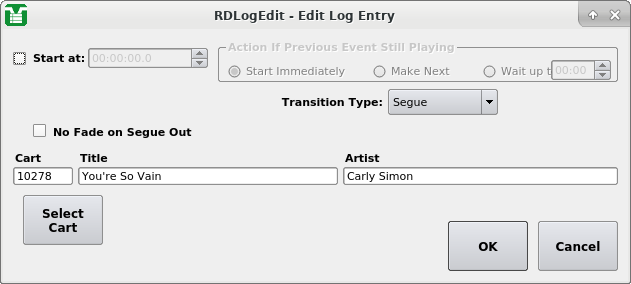
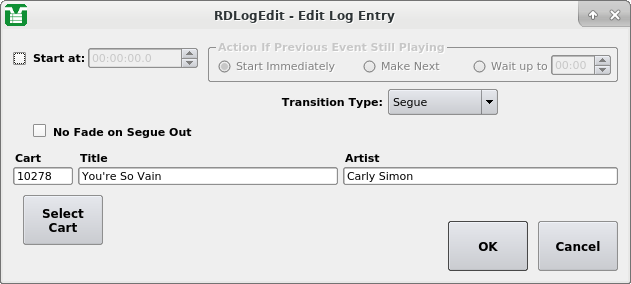
2022-05-20 Fred Gleason <fredg@paravelsystems.com> 	* Adjusted the element layout of the Edit events dialogs in 	rdlogedit(1).

Changed region(s): [[0.271, 0.1408, 0.7227, 0.2817], [0.7528, 0.169, 0.9937, 0.2817]]

diff --git a/rdlogedit/edit_event.cpp b/rdlogedit/edit_event.cpp
@@ -253,12 +253,12 @@ void EditEvent::resizeEvent(QResizeEvent *e)
 {
   edit_timetype_box->setGeometry(10,22,15,15);
   edit_timetype_label->setGeometry(30,19,85,20);
-  edit_time_edit->setGeometry(85,19,120,20);
-  edit_grace_group->setGeometry(215,11,400,42);
-  edit_grace_bgroup->button(0)->setGeometry(10,21,145,20);
-  edit_grace_bgroup->button(1)->setGeometry(155,21,105,20);
-  edit_grace_bgroup->button(2)->setGeometry(265,21,95,20);
-  edit_grace_timeedit->setGeometry(548,31,60,20);
+  edit_time_edit->setGeometry(85,19,110,20);
+  edit_grace_group->setGeometry(205,11,410,42);
+  edit_grace_bgroup->button(0)->setGeometry(10,16,145,20);
+  edit_grace_bgroup->button(1)->setGeometry(155,16,105,20);
+  edit_grace_bgroup->button(2)->setGeometry(265,16,95,20);
+  edit_grace_timeedit->setGeometry(548,26,60,20);
 
   edit_transtype_label->setGeometry(10,60,370,26);
   edit_transtype_box->setGeometry(385,60,110,26);
